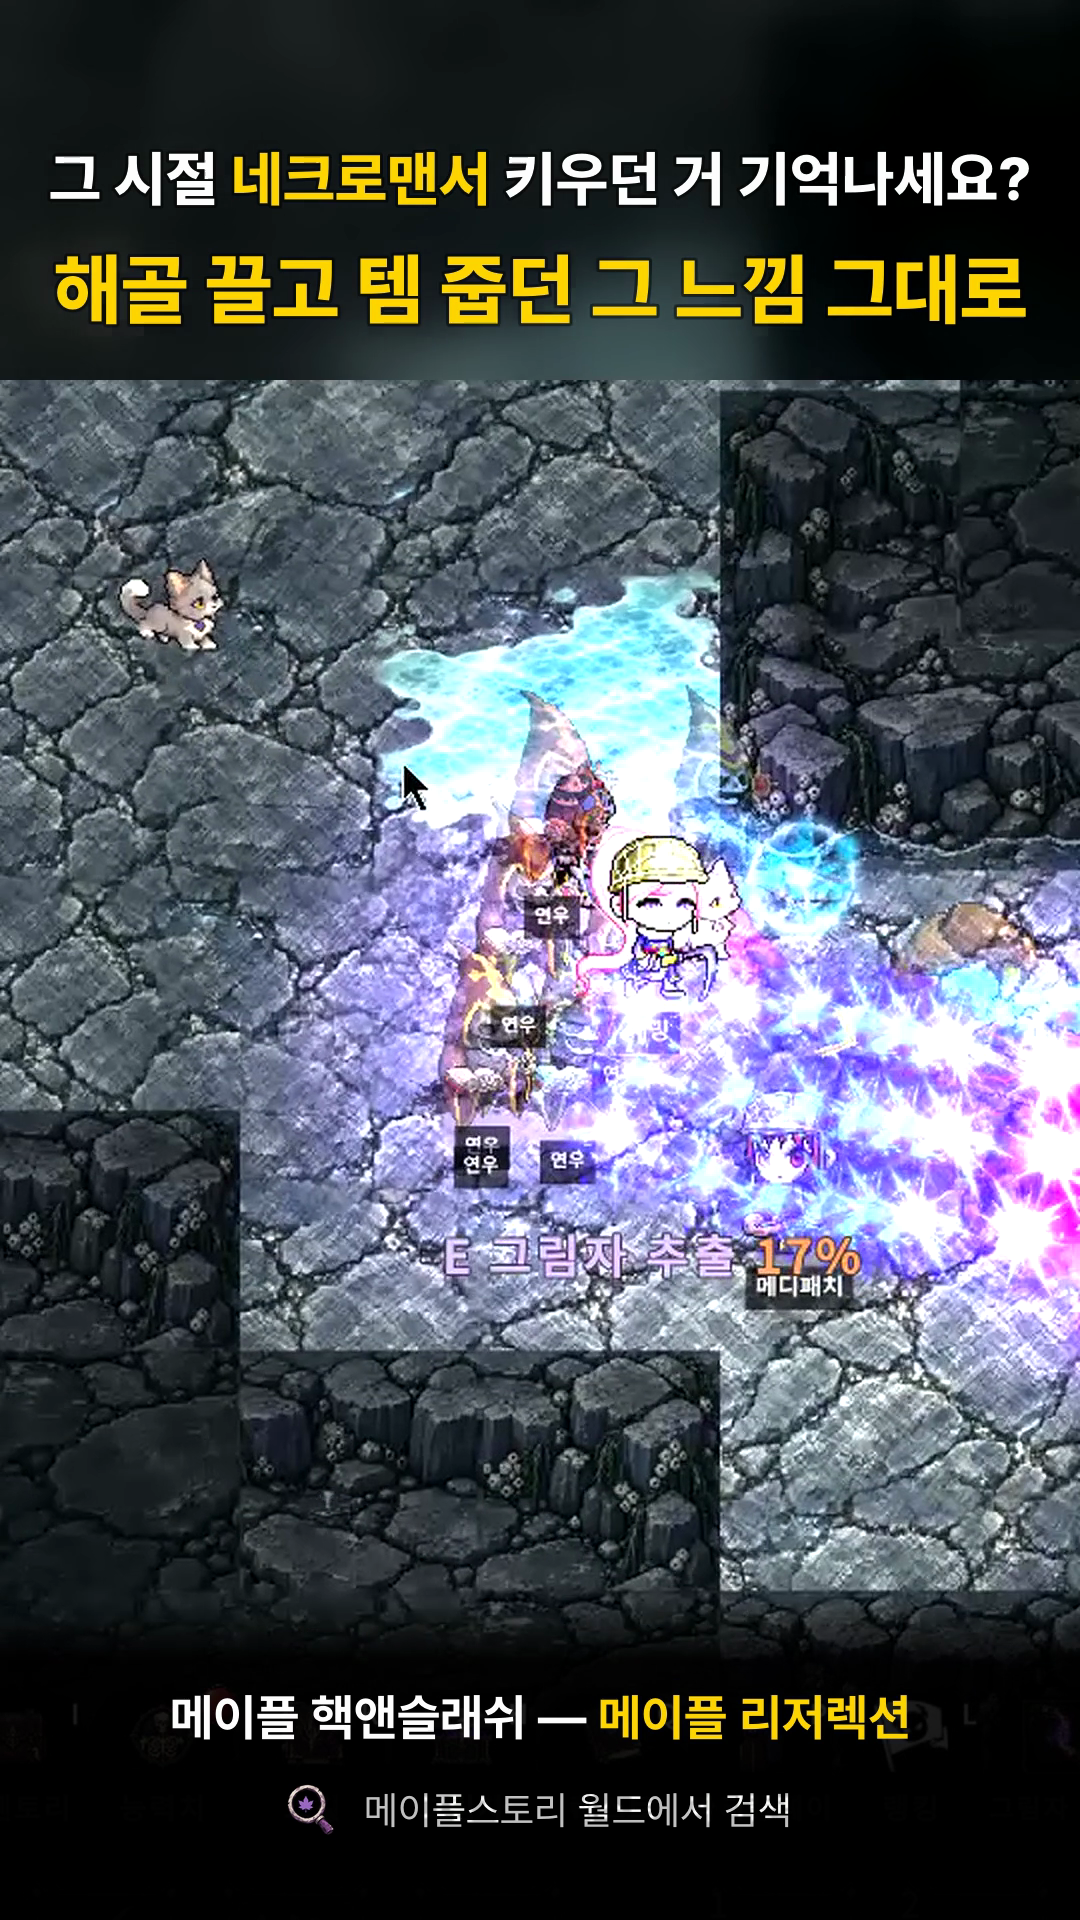
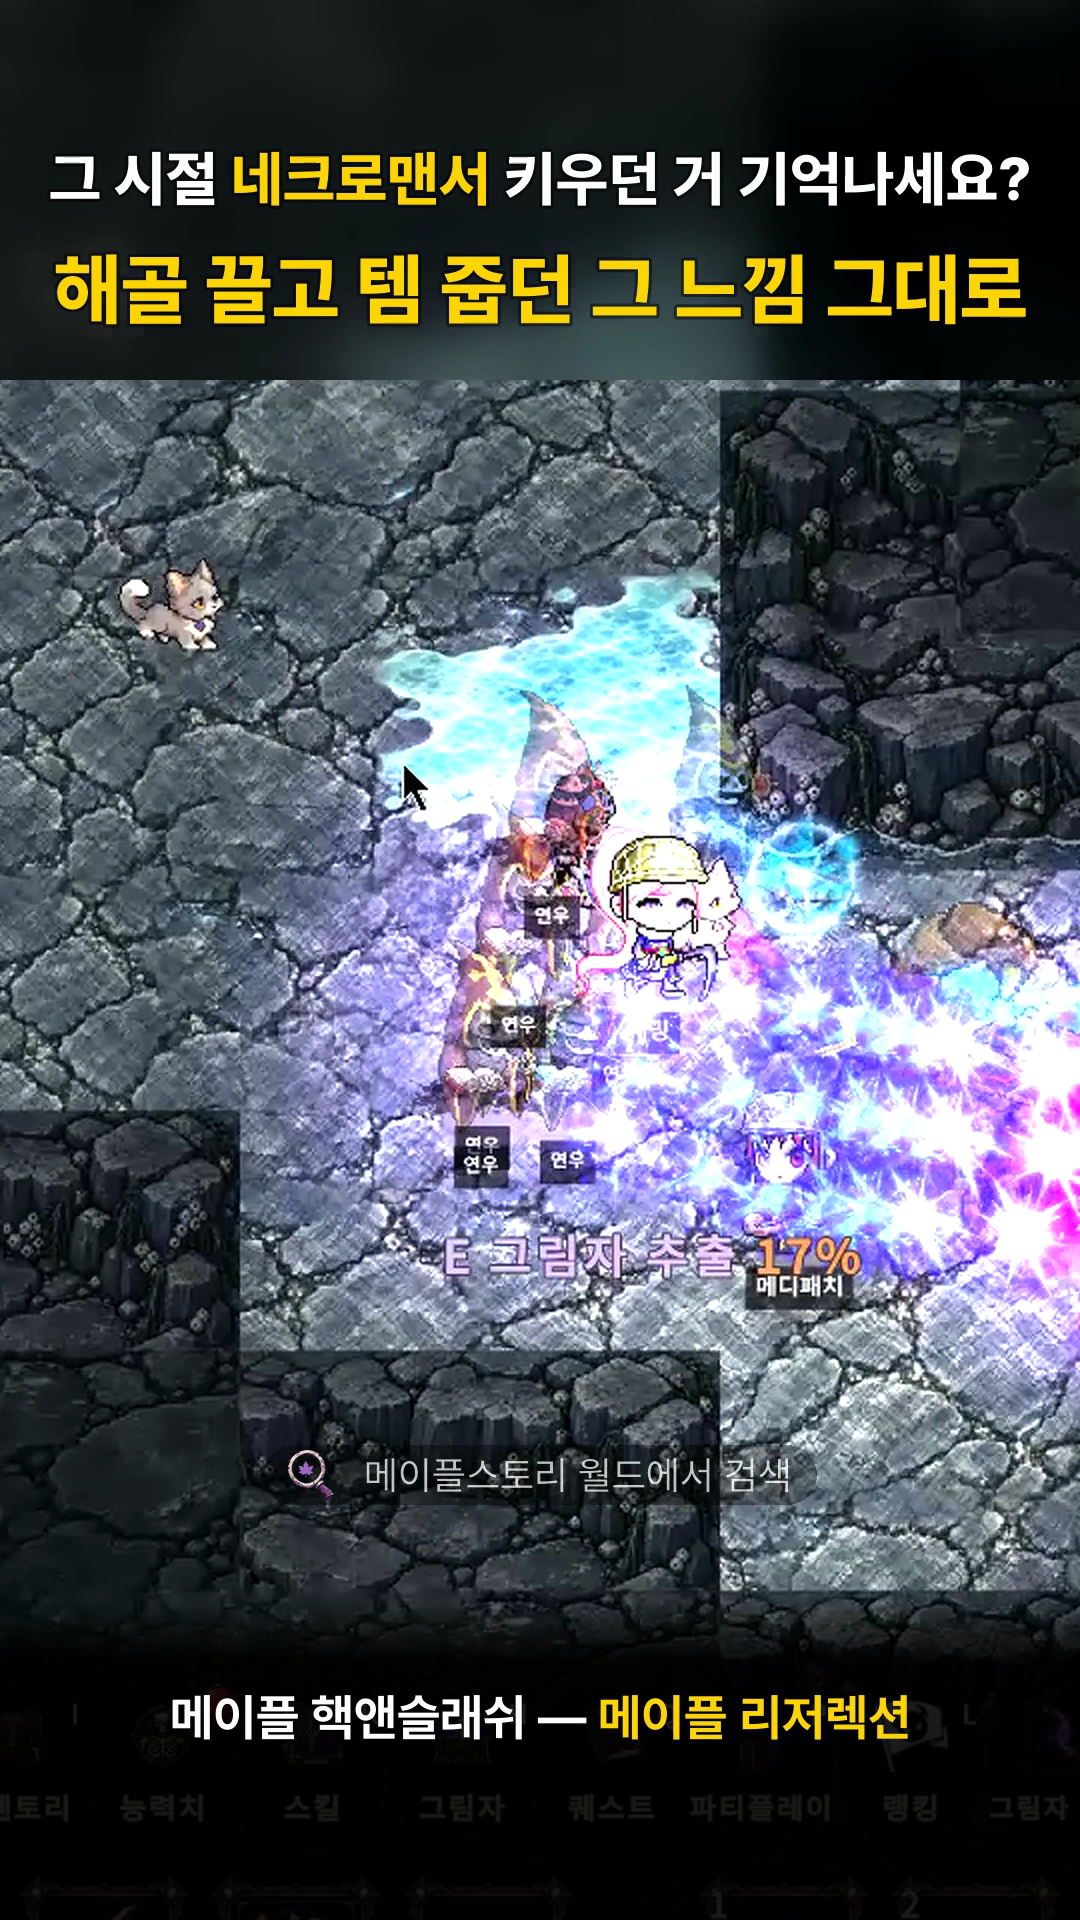
fix(홍보 쇼츠 최종본 — 검색 배지 줄을 사용자가 짚은 게임 화면 바닥 y 1475로)
- 배지 줄 세로 중심 1810(브랜드 줄 아래) → 1475(스킬 추천 판 위 바닥), 가로 가운데 · 옅은 검정 알약(알파 100, 둥근 30)
- 브랜드 줄 아래 HUD 가림 판 제거(B-codex처럼 HUD 비침) · 이전 렌더는 -alt로만 보존
- 겹침 정리: 5장 보스 컷 6:41→6:38.5(물약 알림 전) · 목표 달성 컷 sy 28(처치 알림 위로) · 결산 판 boxTop 460
- promo_overlay rect radius · 접촉판·정지·README 최종본 절 갱신

Changed region(s): [[0.2444, 0.75, 0.7639, 0.7812], [0.3361, 0.9375, 0.7333, 0.9688], [0.275, 0.9375, 0.3056, 0.9688]]

diff --git a/tools/promo/cuts/v4/make_final.py b/tools/promo/cuts/v4/make_final.py
@@ -3,13 +3,13 @@
 사용자 결정(11-07): 전환 띠 없는 B-codex가 기준(-tr 폐기) · 글귀 「메이플 그림체 핵앤슬래시」→「메이플 핵앤슬래쉬」(copy.json ad3b)
 · 본편 내내 검색 배지 줄(아웃트로와 같은 구성: 배지 폭 80 + 「메이플스토리 월드에서 검색」 Regular 39 흰 190)을 가로 가운데로 고정.
 
-배지 줄 자리 (B 레이아웃: videoTop 380 · scale 2 · 아래 검정 띠 y 1600~1920(위 60px 페이드) · 브랜드 줄 cy 1718(Bold 50, 글자 y≈1698~1742)):
-  · 브랜드 줄 위(y 1640~1693)는 57px뿐이고, 「스킬 추천 — 고르기」 판(y≈1540~1636)이 본편 표본 30장 중 13장에 떠서 80px 배지가 들어갈 수 없음.
-  · 그래서 브랜드 줄 바로 아래 cy 1810(배지 실제 그림 y 1784~1835) — 이 자리는 원래 띠 아래로 흐리게 비치던 HUD 메뉴 이름 줄(y≈1790~1820)·
-    단축칸 숫자(y≈1855~1880)뿐이라, 배지 줄 뒤에 y 1760부터 검정 판(알파 210, 위 24px 페이드)을 한 겹 더 깔아 HUD 글자를 지우고 그 위에 얹음
-    (게임 글자와 겹쳐 보이는 곳 없음 · 브랜드 줄과 간격 ≈42px).
-  · 가로 가운데: 배지 PNG(300) 실제 그림 x 56~248 → 폭 80일 때 왼쪽 여백 15·그림 51 / 글자 폭 428 · 배지-글자 간격은 아웃트로와 같은 26(그림 끝~글자 시작)
-    → 보이는 묶음 287~793(가운데 540) = 배지 cx 312, 글자 x 364.
+배지 줄 자리 (11-07 사용자가 짚은 곳 = 게임 화면 맨 아래 바닥, 「스킬 추천 — 고르기」 판(y≈1540~1636)보다 위):
+  · 세로 중심 y 1475(배지 80 → y 1435~1515), 가로 가운데 — 배지 PNG(300) 실제 그림 x 56~248 → 폭 80일 때 왼쪽 여백 15·그림 51 / 글자 폭 428
+    · 배지-글자 간격은 아웃트로와 같은 26 → 보이는 묶음 287~793(가운데 540) = 배지 cx 312, 글자 x 364.
+  · 바닥 그림이 비치므로 줄 뒤에 옅은 검정 알약(알파 100, x 263~817 · y 1445~1505, 둥근 30).
+  · 1460까지 올려도 아래 겹침(5장 안내 알림 띠 y≈1404~1520)은 그대로라 1475 유지(README 최종본 절).
+  · 마지막 결산 판 컷은 boxTop 560→460으로 올려 「받기/확인」 단추(원래 y≈1430~1480)가 배지 줄 위로 가게 함(판 y 840~1436).
+  · 이전 배치(브랜드 줄 아래 y 1810 + HUD 가림 판)는 v4-shorts-60s-B-final-alt.mp4로만 보존(컷 목록 없음).
 """
 import json, os, copy
 HERE = os.path.dirname(os.path.abspath(__file__))
@@ -22,13 +22,23 @@ for it in s['endCard']['items']:
     if it['type'] == 'text' and it['text'] == '메이플 그림체 핵앤슬래시':
         it['text'] = '메이플 핵앤슬래쉬'
 assert any(it.get('text') == '메이플 핵앤슬래쉬' for it in s['endCard']['items'])
-ROW_Y = 1810
+ROW_Y = 1475
 s['baseItems'] = [
-    {'type': 'rect', 'x': 0, 'y': 1760, 'w': 1080, 'h': 160, 'color': [0, 0, 0, 210], 'fade_top': 24},
+    {'type': 'rect', 'x': 263, 'y': ROW_Y - 30, 'w': 554, 'h': 60, 'color': [0, 0, 0, 100], 'radius': 30},
     {'type': 'image', 'path': f'{CX}/badge-search-300.png', 'cx': 312, 'cy': ROW_Y, 'w': 80},
     {'type': 'text', 'text': '메이플스토리 월드에서 검색', 'align': 'left', 'x': 364, 'cy': ROW_Y, 'size': 39, 'weight': 'Regular', 'max_w': 760,
      'color': [255, 255, 255, 190]},
 ]
+assert s['cuts'][-1].get('fit') == 'width'
+s['cuts'][-1]['boxTop'] = 460
+# 5장 안내 알림 띠가 배지 줄 자리(y≈1400~1495)에 걸리는 컷 2개:
+#  · 컷 16(6:41 보스): 알림 「…물약은 15개까지…」가 6:42.0부터 뜸 → 같은 3.2초를 6:38.5~6:41.7로 당김(용암·군단 → 보스 체력판 등장, 알림 전)
+#    (sy만 올리면 알림 아래 「E 그림자 추출」(y≈1535~1575)이 배지 줄로 올라오고 보스 체력판 머리가 잘림)
+#  · 컷 19(6:58 목표 달성): 처치 알림 두 줄(y≈1350~1495) → sy 0→28(화면 56px 위로, 알림 끝 y≈1439 · 위쪽 몬스터 체력판 끝만 조금 잘림)
+c15, c18 = s['cuts'][15], s['cuts'][18]
+assert c15['start'] == 401.0 and c18['start'] == 418.6
+c15['start'] = 398.5; c15['note'] += ' · 최종본: 6:42 물약 알림이 배지 줄과 겹쳐 6:38.5로 당김'
+c18['sy'] = 28; c18['note'] += ' · 최종본: 처치 알림이 배지 줄과 겹쳐 sy 28'
 s['contact'] = f'{EV}/contact-{s["id"]}.jpg'
 s['out'] = f'assets/maple_maketing_video/out/{s["id"]}.mp4'
 keys = ['id'] + [k for k in s if k != 'id']

diff --git a/tools/promo/promo_overlay.py b/tools/promo/promo_overlay.py
@@ -97,6 +97,10 @@ def draw_rect(img, it):
     x, y, w, h = it['x'], it['y'], it['w'], it['h']
     r, g, b, a = it['color']
     ft, fb = it.get('fade_top', 0), it.get('fade_bottom', 0)
+    if it.get('radius'):  # 둥근 알약 판(페이드 없음) — 최종본 배지 줄 뒤
+        d.rounded_rectangle([x, y, x + w - 1, y + h - 1], radius=it['radius'], fill=(r, g, b, a))
+        img.alpha_composite(layer)
+        return
     for yy in range(h):
         k = 1.0
         if ft and yy < ft: k = yy / ft

diff --git a/docs/evidence/2026-11-07-marketing-video-shorts-v4/README.md b/docs/evidence/2026-11-07-marketing-video-shorts-v4/README.md
@@ -170,10 +170,14 @@ python3 tools/promo/cuts/v4/final_sheets.py      # -text 접촉판 · endcard-B-
 - **기준 = 전환 띠 없는 B-codex** (`-tr` 폐기). 컷·소리·길이 그대로 — 59.87초, 게임 소리 -16 LUFS / -1.49 dBTP.
 - **글귀 교체** (`tools/promo/copy.json` 새 세트 `ad3b`, `ad3`은 1차 재현용으로 보존): 아래 띠 브랜드 줄 「메이플 그림체 핵앤슬래시 — 메이플 리저렉션」 → **「메이플 핵앤슬래쉬 — 메이플 리저렉션」**(노랑 강조는 「메이플 리저렉션」만) · 엔드카드 부제 → **「메이플 핵앤슬래쉬」**(사용자 철자 그대로). 훅 두 줄은 그대로.
 - **본편 검색 배지 줄** (처음~엔드카드 디졸브까지 고정, 아웃트로와 같은 구성: `badge-search-300.png` 폭 80 + 「메이플스토리 월드에서 검색」 Pretendard Regular 39px 흰색 75%):
-  - 자리: **세로 중심 y 1810**, 가로 가운데 — 배지 cx 312 · 글자 왼쪽 x 364 (배지 PNG 실제 그림 x 56~248 → 보이는 묶음 x 287~793, 가운데 540. 배지 그림 끝~글자 간격 26은 아웃트로와 같음).
-  - 까닭: B 레이아웃은 영상 y 380~1920(원본 1080p의 y 205~975를 2배) · 아래 검정 띠 y 1600~1920(위 60px 페이드) · 브랜드 줄 중심 y 1718(글자 ≈1698~1742). 브랜드 줄 **위**(y ≈1640~1693)는 57px뿐인데 80px 배지가 필요하고, 「스킬 추천 — 고르기」 판(y ≈1540~1636)이 본편 2초 간격 표본 30장 중 13장에 떠서 겹침. 그래서 브랜드 줄 **바로 아래** y 1810으로 내림.
-  - 이 자리에는 원래 띠 밑으로 HUD 메뉴 이름(y ≈1790~1820)·단축칸 숫자(y ≈1855~1880)가 흐리게 비쳤으므로, 배지 줄 뒤에 y 1760부터 검정 판(알파 210, 위 24px 페이드)을 한 겹 더 깔아 HUD 글자를 지움 → 배지 줄과 겹쳐 보이는 게임 글자 없음(「스킬 추천」 줄·안내 알림·「E 그림자 추출」은 모두 y 1640 위).
+  - 자리 = 사용자가 자료실 화면에서 짚은 게임 화면 맨 아래 바닥(영상 y ≈1390~1570), 「스킬 추천 — 고르기」 판(y ≈1540~1636)보다 위. **세로 중심 y 1475**(배지 y 1435~1515), 가로 가운데 — 배지 cx 312 · 글자 왼쪽 x 364 (배지 PNG 실제 그림 x 56~248 → 보이는 묶음 x 287~793, 가운데 540. 배지 그림 끝~글자 간격 26은 아웃트로와 같음).
+  - 바닥 그림이 비치므로 줄 뒤에 옅은 검정 알약(알파 100, x 263~817 · y 1445~1505, 둥근 30 — `promo_overlay.py` rect `radius`). 밝은 사막 컷에서도 읽힘(접촉판). 군단이 몰린 컷(5장 첫 컷)에선 이름표 「연우」가 알약 둘레에 비침.
+  - 겹침 확인(2초 간격 30장 + 5장 0.5초 간격 28장): 「스킬 추천」 판은 판 윗선 1540 아래라 안 겹침. 겹친 것은 5장 안내 알림 띠 둘 — y를 1460까지 올려도 알림 띠(y ≈1400~1495)는 그대로 걸려서 y는 1475 유지하고 컷 쪽을 고침:
+    - 컷 16(6:41 보스): 알림 「…물약은 15개까지…」가 6:42.0부터 뜸 → 같은 3.2초를 **6:38.5~6:41.7**로 당김(알림 전, 보스 체력판이 중간에 나타남). sy만 올리면 알림 아래 「E 그림자 추출」(y ≈1535~1575)이 배지 줄로 올라오고 보스 체력판 머리가 잘려서 시작 시각을 옮김.
+    - 컷 19(6:58 목표 달성): 처치 알림 두 줄(y ≈1350~1495) → **sy 0→28**(화면 56px 위로, 알림 끝 y ≈1439 · 위 몬스터 체력판 끝만 조금 잘림).
+    - 마지막 결산 판 컷: 「받기/확인」 단추(원래 y ≈1430~1480) → **boxTop 560→460**(판 y 840~1436, 배지 줄은 판 아래 검정 위).
   - 조립기 확장: 컷 목록 `"baseItems"` = 위·아래 띠 판(base)에 덧붙이는 고정 항목. 컷마다 같은 그림이라 컷 디졸브에서도 그대로, 엔드카드 디졸브 때 컷과 함께 사라짐.
+  - 이전 배치(브랜드 줄 아래 y 1810 + HUD 가림 검정 판)는 사용자 지시와 달라 폐기 — 렌더만 `assets/maple_maketing_video/out/v4-shorts-60s-B-final-alt.mp4`로 보존(커밋 제외). 아래 띠는 B-codex처럼 HUD가 비침.
 - 엔드카드는 B-codex와 같음(로고 900 · 아웃트로 판 · 배지 줄 220,1430), 부제 글자만 교체.
 
 | 파일 | 내용 |
@@ -183,6 +187,6 @@ python3 tools/promo/cuts/v4/final_sheets.py      # -text 접촉판 · endcard-B-
 | `endcard-B-final.png` | 끝 0.5초 전 정지 1080×1920 |
 | `frame-B-final-badge.png` | 본편 22.55초(3장 첫 컷) 정지 1080×1920 — 배지 줄 자리 확인 |
 
-영상: `assets/maple_maketing_video/out/v4-shorts-60s-B-final.mp4` (CRF 18, 커밋 제외) · 휴대폰 사본 CRF 24 / maxrate 3.7M 26.1MiB.
+영상: `assets/maple_maketing_video/out/v4-shorts-60s-B-final.mp4` (CRF 18, 커밋 제외) · 휴대폰 사본 CRF 24 / maxrate 3.7M 26.3MiB.
 
-남은 점: 브랜드 줄·배지 줄(y 1690~1840)이 쇼츠 앱 하단 UI(설명·채널 줄)와 겹칠 수 있음 — 업로드 미리보기에서 확인 필요.
+남은 점: 브랜드 줄(y ≈1700~1740)·배지 줄(y 1435~1515)이 쇼츠 앱 하단 UI(설명·채널 줄)와 겹칠 수 있음 — 업로드 미리보기에서 확인 필요.

diff --git a/docs/requests/codex-promo-shorts-layers-20261107.md b/docs/requests/codex-promo-shorts-layers-20261107.md
@@ -53,4 +53,4 @@
 - ④ 검색 배지 `badge-search-300.png` — **승인·확정**. 샘플 그대로, 추가 작업 없음(엔드카드 + 본편 아래 띠에 고정으로 씀).
 - ③ 전환 띠(혼 샘플 `transition-soul.png` + 군단·보스 초안) — **반려**. 실제 화면 위 가시성이 낮고 게임 안내를 가림 → 추가 제작 불필요.
 - 글귀: 「메이플 그림체 핵앤슬래시」 → **「메이플 핵앤슬래쉬」**. 글자는 조립기가 넣으므로 코덱스 작업 없음.
-- 적용 결과: `docs/evidence/2026-11-07-marketing-video-shorts-v4/contact-v4-shorts-60s-B-final.jpg` · `contact-v4-shorts-60s-B-final-text.jpg` · `endcard-B-final.png` · `frame-B-final-badge.png` (최종본 `v4-shorts-60s-B-final`, 59.87초).
+- 적용 결과: `docs/evidence/2026-11-07-marketing-video-shorts-v4/contact-v4-shorts-60s-B-final.jpg` · `contact-v4-shorts-60s-B-final-text.jpg` · `endcard-B-final.png` · `frame-B-final-badge.png` (최종본 `v4-shorts-60s-B-final`, 59.87초 · 본편 배지 줄은 게임 화면 바닥 y 1475).
